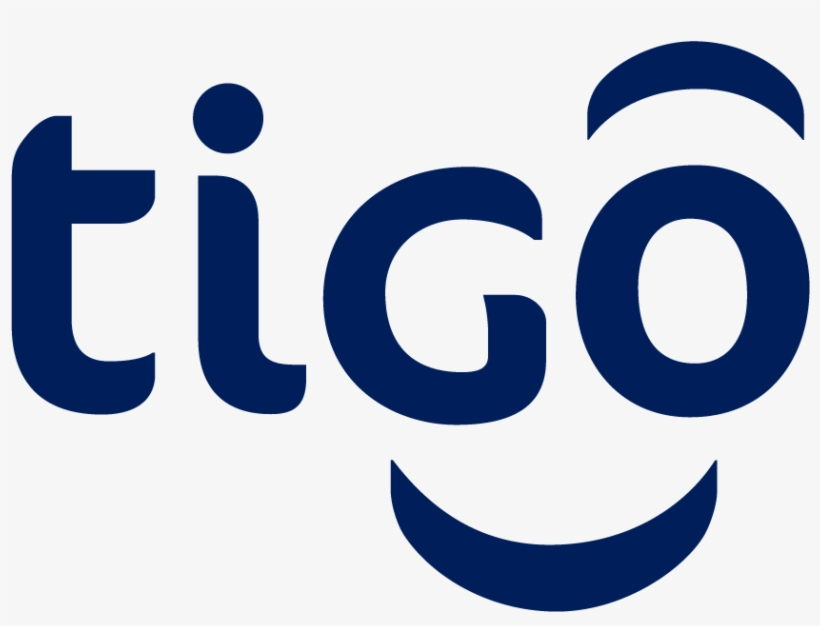
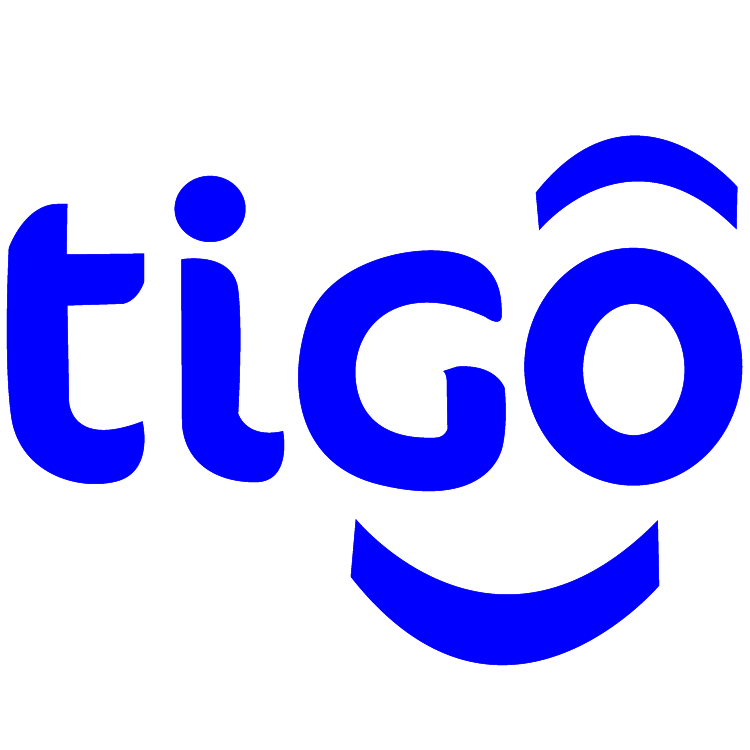
changes

diff --git a/src/app/views/payments/payments.component.html b/src/app/views/payments/payments.component.html
@@ -8,6 +8,18 @@
           <h1>Tickets Checkout</h1>
         </div>
         <div class="col-sm-12">
+          <div class="row">
+            <div class="cols-m-12">
+              <div class="alert alert-danger" role="alert">
+                  
+                  
+                <span style="color:black;">  <span><b class="text-danger"> {{9 - time.minutes}} Minutes : {{60-time.seconds}} Seconds </b></span> Please complete payment within <span><b class="text-danger">10:00 Minutes</b></span> .Your seat will be release to others if you do not pay within 10:00 minutes.</span>
+                </div>
+                
+                <span>To complete the payment you will receive a prompt from Mpesa on the mobile number below</span>  
+                
+            </div>
+          </div>
           <ul class="nav nav-pills mb-3" id="pills-tab" role="tablist">
             <li class="nav-item" role="presentation">
               <button class="nav-link active" [ngClass]="{'active':selected==0 || selected==1,'show':selected==0 || selected==1}" id="pills-mpesa-tab" data-bs-toggle="pill" data-bs-target="#pills-mpesa" type="button" role="tab" aria-controls="pills-mpesa" aria-selected="true">Mpesa</button>
@@ -20,23 +32,16 @@
           <div class="tab-content" id="pills-tabContent">
             <div class="tab-pane" [ngClass]="{'active':selected==0 || selected==1,'show':selected==0 || selected==1}"  id="pills-mpesa" role="tabpanel" aria-labelledby="pills-mpesa-tab" tabindex="0">
               <div class=""   style="margin-top: 10px;">
-                <div class="alert alert-danger" role="alert">
-                  
-                  
-                <span style="color:black;">  <span><b class="text-danger"> {{9 - time.minutes}} Minutes : {{60-time.seconds}} Seconds </b></span> Please complete payment within <span><b class="text-danger">10:00 Minutes</b></span> .Your seat will be release to others if you do not pay within 10:00 minutes.</span>
-                </div>
-                
-                <span>To complete the payment you will receive a prompt from Mpesa on the mobile number below</span>  
-                
+               
                
                 <div class="row">
                   <div class="row">
                     <mat-radio-group aria-label="Select an option">
                      <div class="row">
-                      <div class="col-sm-5" *ngFor="let method of paymentMethods">
+                      <div class="col-sm-12" *ngFor="let method of paymentMethods">
                         <mat-radio-button  [value]="method"  (change)="selectPaymentMethod(method)">
-                          <img [src]="method.logoUrl" alt="{{ method.name }} logo" style="width:220px;" *ngIf="method !='Tigo'">
-                          <img [src]="method.logoUrl" alt="{{ method.name }} logo" style="width:220px;margin-left: 200px;!important" *ngIf="method =='tigo'">
+                          <img [src]="method.logoUrl" alt="{{ method.name }} " style="width:220px;" *ngIf="method !='tigo'">
+                          <img [src]="method.logoUrl" alt="{{ method.name }}" style="width:220px;margin-left:300px !important;" *ngIf="method =='tigo'">
 
                         </mat-radio-button>
                       </div>
@@ -80,9 +85,7 @@
                   </div>
                 </div>
                 
-                <div *ngIf="selectedPaymentMethod">
-                  Selected Payment Method: {{ selectedPaymentMethod.name }}
-                </div>
+            
 
 
                     
@@ -105,7 +108,6 @@
                     <li>Choose MPESA
                       <ol  style="list-style:upper-roman;">
                         <li>Go to your sim toolkit enter</li>
-                        <li>Use account number <b>{{ref_no}}</b></li>
                         <li>Enter 009009 as your business number</li>
                         <li>Enter <b>{{ref_no}}</b></li>
                         <li>Enter KES <b>{{data?.totalTicketPrice}}</b></li>

diff --git a/src/app/views/trip-review/trip-review.component.ts b/src/app/views/trip-review/trip-review.component.ts
@@ -123,7 +123,7 @@ export class TripReviewComponent implements OnInit {
     this.data.onwardticket.paymentMethod="tigo"
     this.data.onwardticket.currency="TZS"
     this.data.onwardticket.passenger.forEach((element,i)=> {
-      element.bookedThrough="Web"
+      element.bookedThrough="web"
       if(this.data.returnticket){
         delete this.data.returnticket.fareBreakup
         this.data.returnticket.c_email=element.c_email ? element.c_email :'';
@@ -136,10 +136,8 @@ export class TripReviewComponent implements OnInit {
         this.data.returnticket.passenger[i].nationality = element.nationality
         this.data.returnticket.passenger[i].mobile = element.mobile
         this.data.returnticket.selectedSeat=this.getSeatsBooked(this.data.returnticket.passenger);
-        this.data.returnticket.bookedThrough="Web"
+        this.data.returnticket.bookedThrough="web"
         this.data.returnticket.paymentMethod="tigo"
-     
-        
       }
     });
     this.unsetNotRequiredParams();
@@ -230,30 +228,5 @@ initPassenger(){
   
 }
 
-makePayment(){
-  this.spinner.show();
-  let formData=this.paymentForm.value
-  let data ={
-    "bookingRef": this.ref_no,
-    "queryoption":this.data.totalTicketPrice,
-    "queryvalue": formData.country_code+''+formData.mobile,
-    "requestType": "ticket",
-    "isWalletApply": false,
-    "additionalInfo": {
-      "onward": {"sponsorTrip": false, "discountId": 0},
-      "return": {"sponsorTrip": false, "discountId": 0}
-    },
-  }
-  this.service.makePayment(data).subscribe((res)=>{
-    this.spinner.hide();
-    if(res.isSuccess){
-      localStorage.setItem("payment_status",'initiated');
-      this.toastr.success("Successfully initiated","Success")
-      // this.payments.push("Mpesa Confirmation")
-      // this.selected=1;
-      // this.timer();
-    }
-  })
-}
 
 }

diff --git a/src/app/views/payments/payments.component.ts b/src/app/views/payments/payments.component.ts
@@ -26,6 +26,7 @@ export class PaymentsComponent implements OnInit {
   id;
   id1;
   selectedPaymentMethod;
+  method='Tigo';
   time: any={};
   paymentMethods= [
     {
@@ -34,7 +35,7 @@ export class PaymentsComponent implements OnInit {
     },
     {
       name: 'tigo',
-      logoUrl: 'assets/img/tigo-logo.png'
+      logoUrl: 'assets/img/tigo.png'
     },
     // Add more payment methods as needed
   ];
@@ -84,9 +85,10 @@ export class PaymentsComponent implements OnInit {
     let formData=this.paymentForm.value
     let data ={
       "bookingRef": this.ref_no,
-      "queryoption":this.data.totalTicketPrice,
+      "queryoption":1,
       "queryvalue": formData.country_code+''+formData.mobile,
-      "requestType": "ticket",
+      "requestType": "mpesa",
+      "paymentMethod":"vodacom",
       "isWalletApply": false,
       "additionalInfo": {
         "onward": {"sponsorTrip": false, "discountId": 0},

diff --git a/src/app/app.module.ts b/src/app/app.module.ts
@@ -42,6 +42,7 @@ import { OnwardTripComponent } from './views/onward-trip/onward-trip.component';
 import { PrivacyComponent } from './views/privacy/privacy.component';
 import { RegisterComponent } from './views/register/register.component';
 import { DatePipe } from '@angular/common';
+import { ClipboardModule } from '@angular/cdk/clipboard';
 import { TripReviewComponent } from './views/trip-review/trip-review.component';
 @NgModule({
   declarations: [
@@ -89,6 +90,7 @@ import { TripReviewComponent } from './views/trip-review/trip-review.component';
     MatPaginatorModule,
     NgxSpinnerModule,
     MatExpansionModule,
+    ClipboardModule,
     ToastrModule.forRoot()
   ],
   providers: [

diff --git a/src/app/views/register/register.component.ts b/src/app/views/register/register.component.ts
@@ -15,7 +15,7 @@ import { DatePipe } from '@angular/common';
 export class RegisterComponent implements OnInit {
   loginForm: FormGroup;
   type='2'
-  codes=['254']
+  codes=['254','255']
   registerForm: FormGroup;
   user:any={};
   otp=false;
